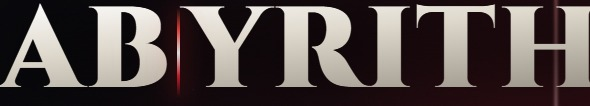
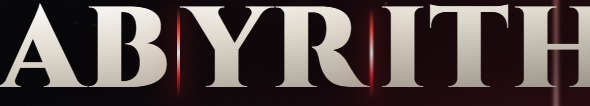
Add a second title seam, splitting the wordmark AB|YR|ITH
The two seams pulse on offset delays so they do not blink in lockstep.

Changed region(s): [[0.6102, 0.0, 1.0, 0.9057], [0.9153, 0.9057, 0.9458, 1.0]]

diff --git a/public/index.html b/public/index.html
@@ -81,7 +81,7 @@
       </p>
 
       <h1 class="hero__title reveal" data-d="1">
-        <span class="hero__title-a">AB</span><span class="hero__seam" aria-hidden="true"></span><span class="hero__title-b">YRITH</span>
+        <span class="hero__title-a">AB</span><span class="hero__seam" aria-hidden="true"></span><span class="hero__title-b">YR</span><span class="hero__seam" aria-hidden="true"></span><span class="hero__title-c">ITH</span>
       </h1>
 
       <p class="hero__sub reveal" data-d="2">The Fracturing of Light</p>

diff --git a/public/styles.css b/public/styles.css
@@ -180,6 +180,8 @@ em{ font-style:italic; }
   animation:seam 4.5s ease-in-out infinite;
 }
 @keyframes seam{ 0%,100%{opacity:.85; filter:blur(0)} 50%{opacity:1; filter:blur(1.5px)} }
+/* Offset the second seam so the two do not pulse in lockstep. */
+.hero__seam ~ .hero__seam{ animation-delay:-1.9s; }
 
 .hero__sub{
   font-family:var(--display); font-size:clamp(.82rem,2vw,1.22rem); font-weight:500;
